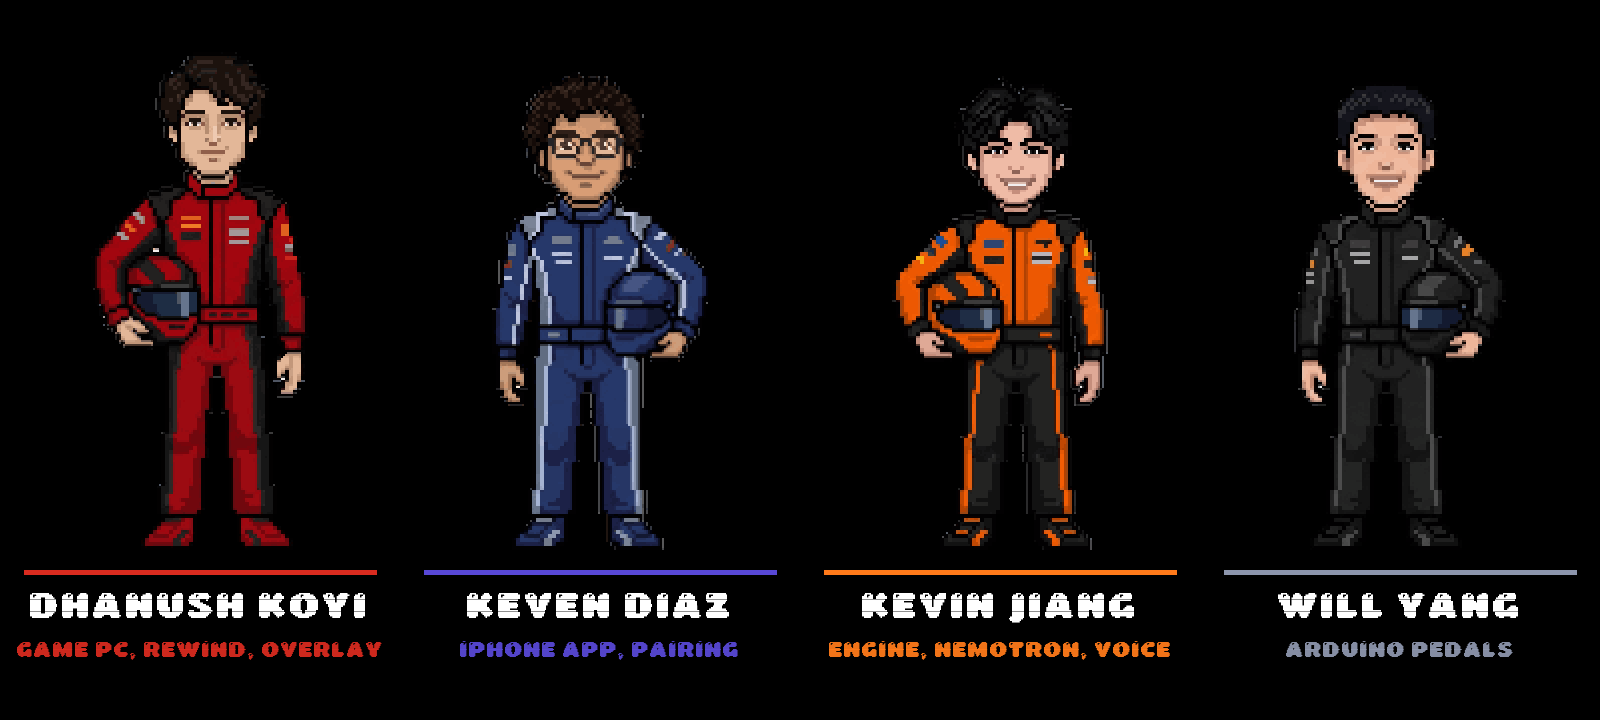
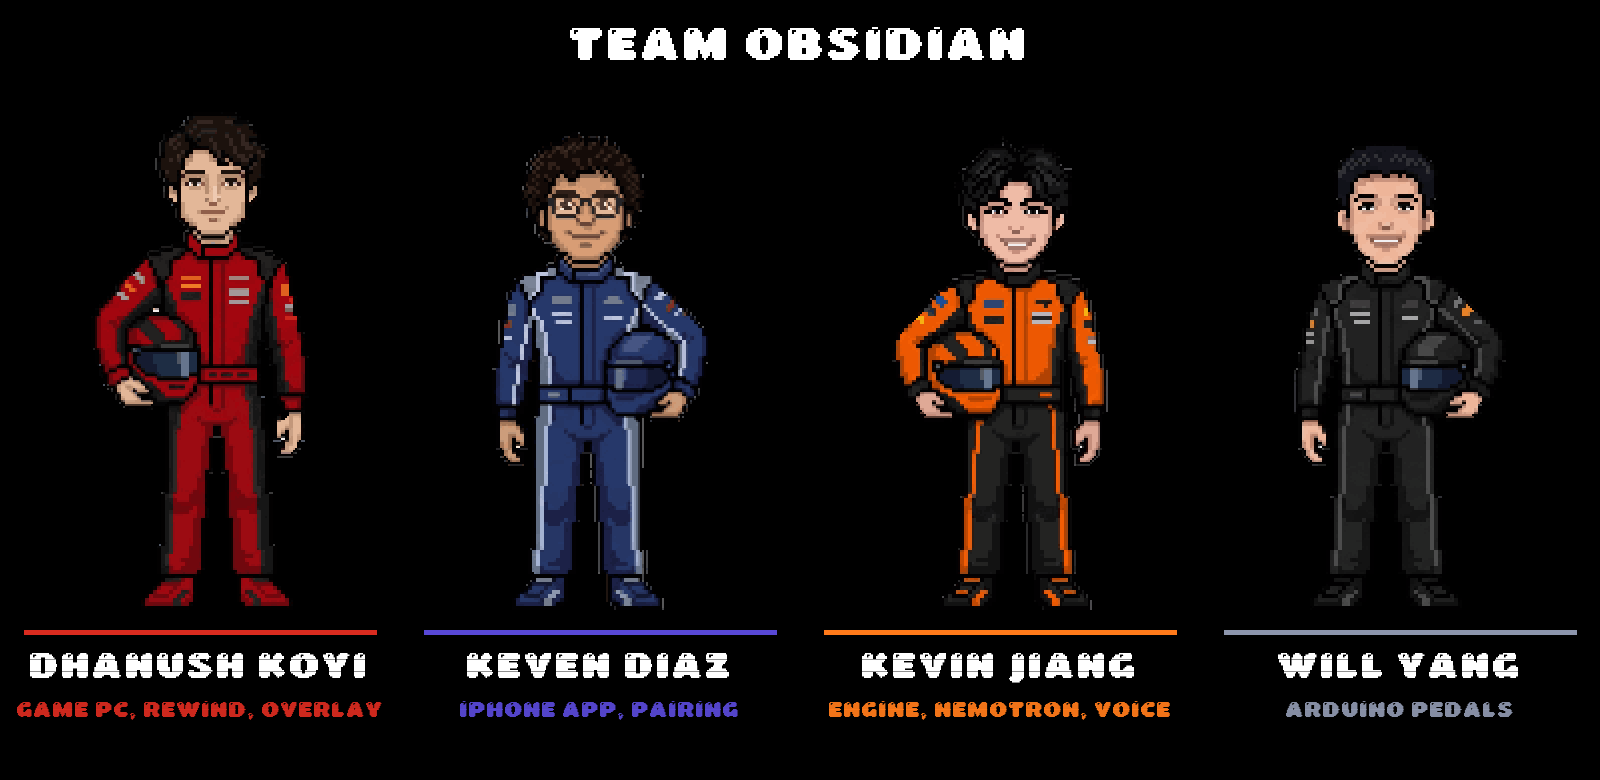
README: Team Obsidian heading and refreshed team sprites

diff --git a/README.md b/README.md
@@ -147,7 +147,7 @@ coach and cloud reference is [docs/REFERENCE.md](docs/REFERENCE.md).
 
 ---
 
-## Team
+## Team Obsidian
 
 | | |
 | --- | --- |
